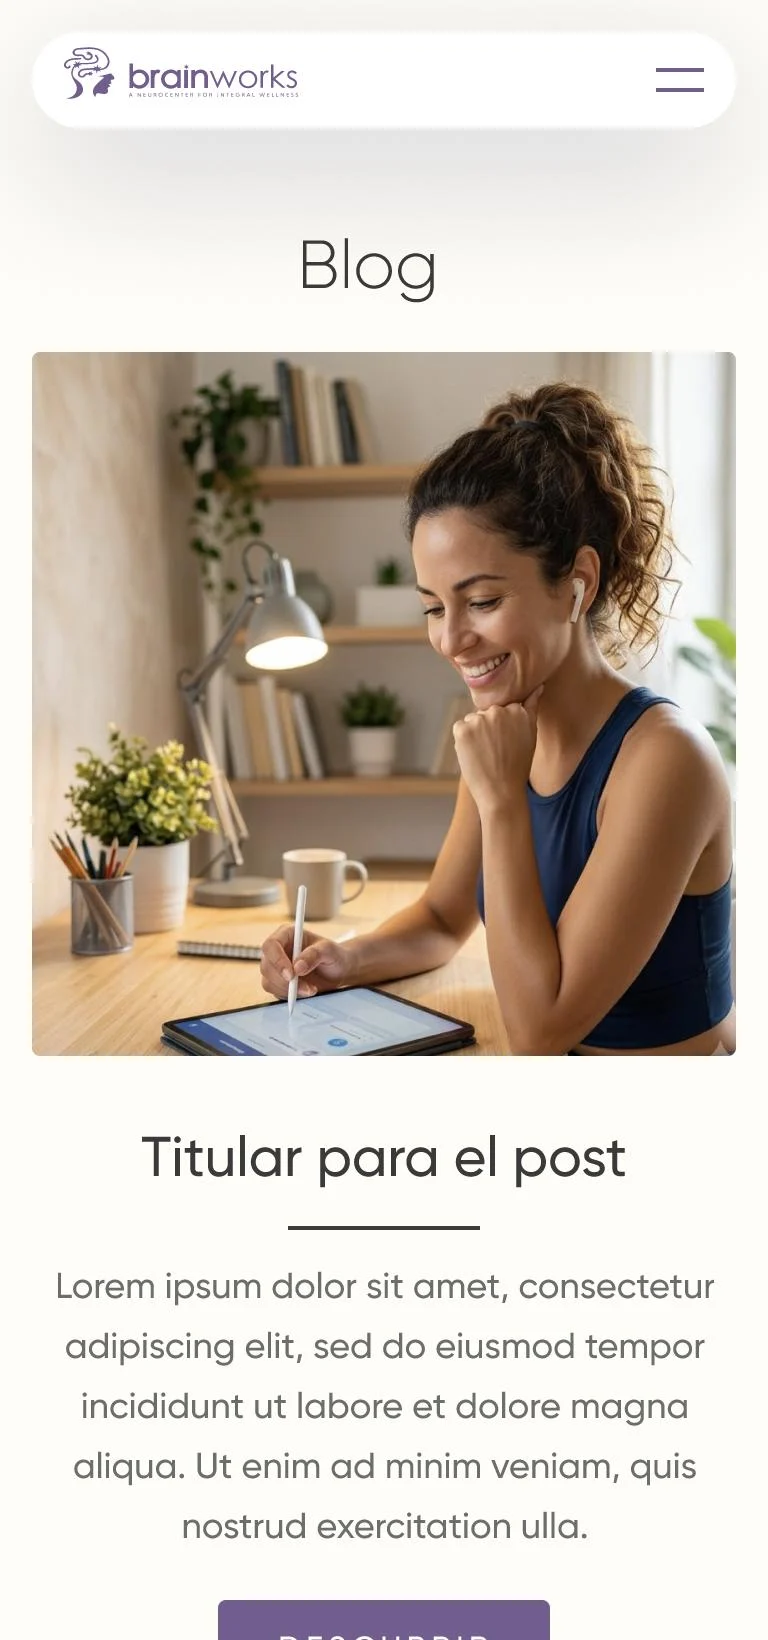
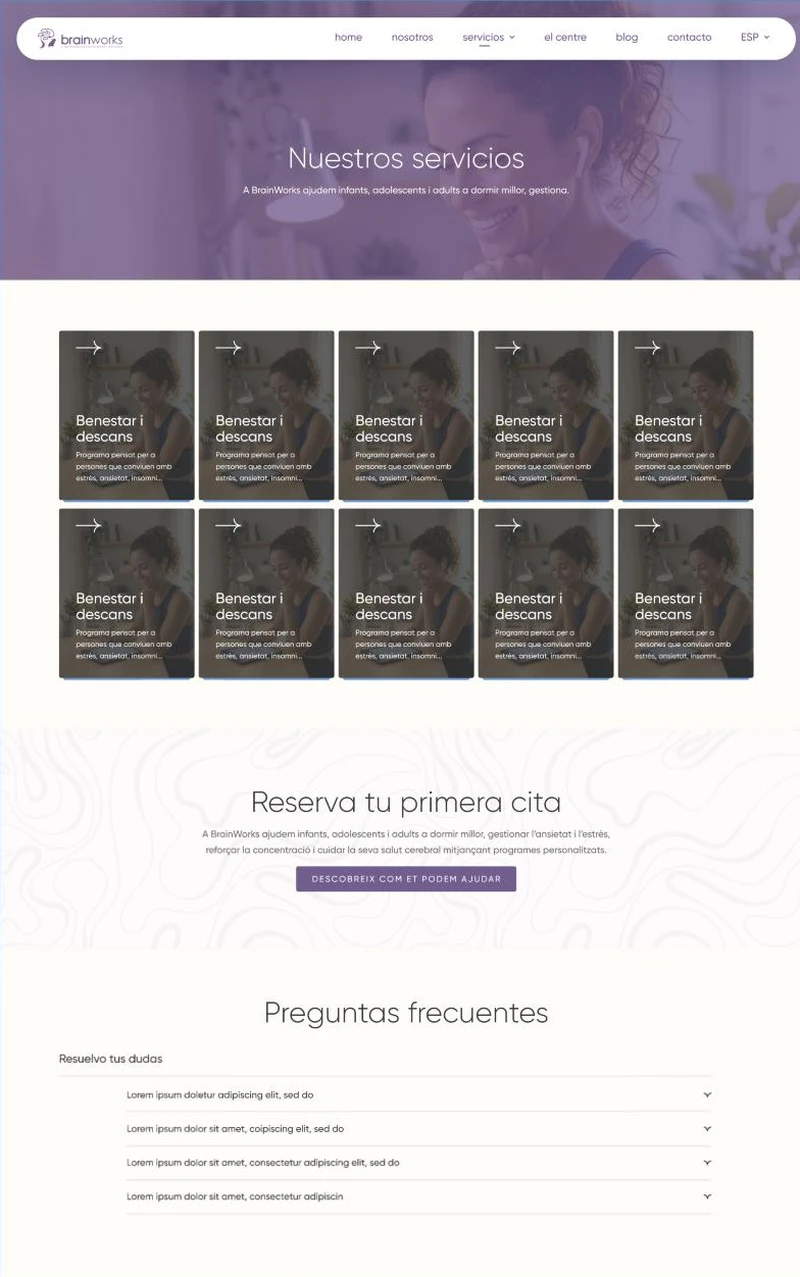
Brainworks: UX/UI amb el fitxer de Figma correcte (Inici, Serveis, El centre)
Claude-Session: https://claude.ai/code/session_01QbDmujYxTxyQRK3mqgvXPx

diff --git a/src/data/mocks/projects.ts b/src/data/mocks/projects.ts
@@ -450,7 +450,7 @@ const llista: Project[] = [
   {
     slug: "brainworks-center",
     lloc: "Escaldes-Engordany",
-    ux: [{ src: "/assets/altitud/projectes/ux/brainworks-1.webp", nom: "Serveis", alt: "Disseny mòbil de la pàgina de serveis de Brainworks a Figma", format: "mobil" }, { src: "/assets/altitud/projectes/ux/brainworks-2.webp", nom: "Blog", alt: "Disseny mòbil del blog de Brainworks", format: "mobil" }, { src: "/assets/altitud/projectes/ux/brainworks-3.webp", nom: "Contacte", alt: "Disseny mòbil de la pàgina de contacte de Brainworks", format: "mobil" }],
+    ux: [{ src: "/assets/altitud/projectes/ux/brainworks-1.webp", nom: "Inici", alt: "Disseny de la pàgina d'inici de Brainworks a Figma", format: "web" }, { src: "/assets/altitud/projectes/ux/brainworks-2.webp", nom: "Serveis", alt: "Disseny de la pàgina de serveis de Brainworks a Figma", format: "web" }, { src: "/assets/altitud/projectes/ux/brainworks-3.webp", nom: "El centre", alt: "Disseny de la pàgina El centre de Brainworks a Figma", format: "web" }],
     name: "Brainworks Center",
     sector: "Salut i benestar",
     summary: "Web, xarxes socials i identitat corporativa.",
